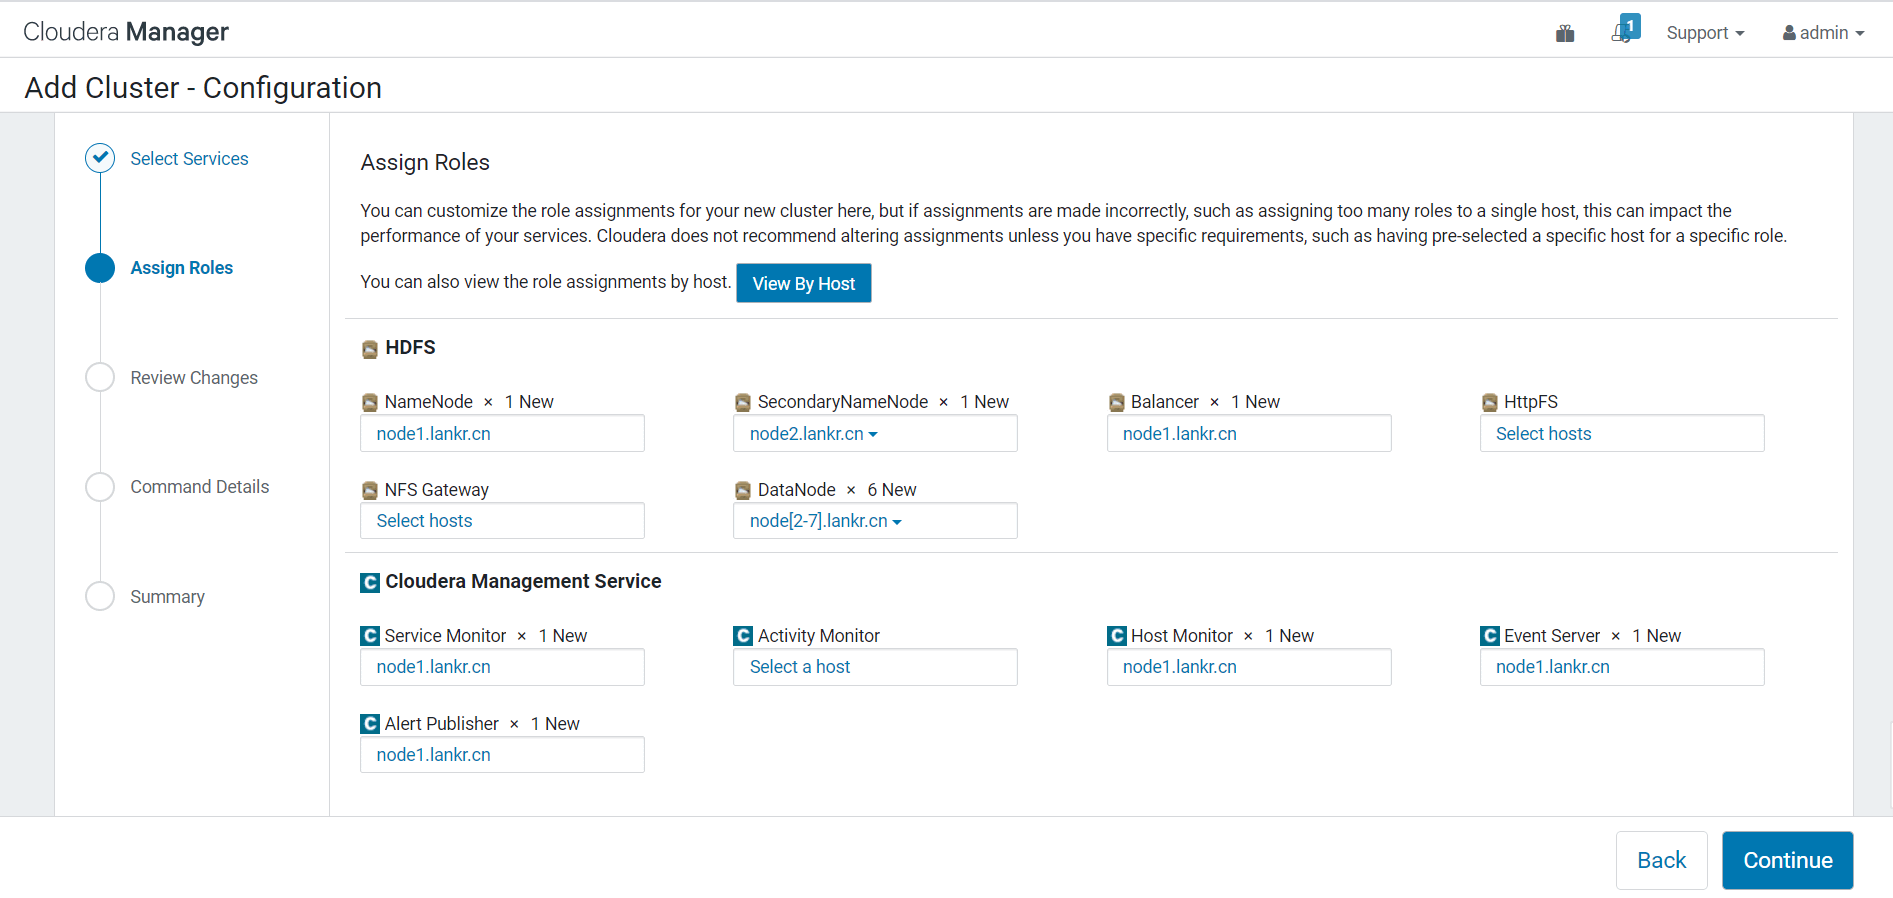
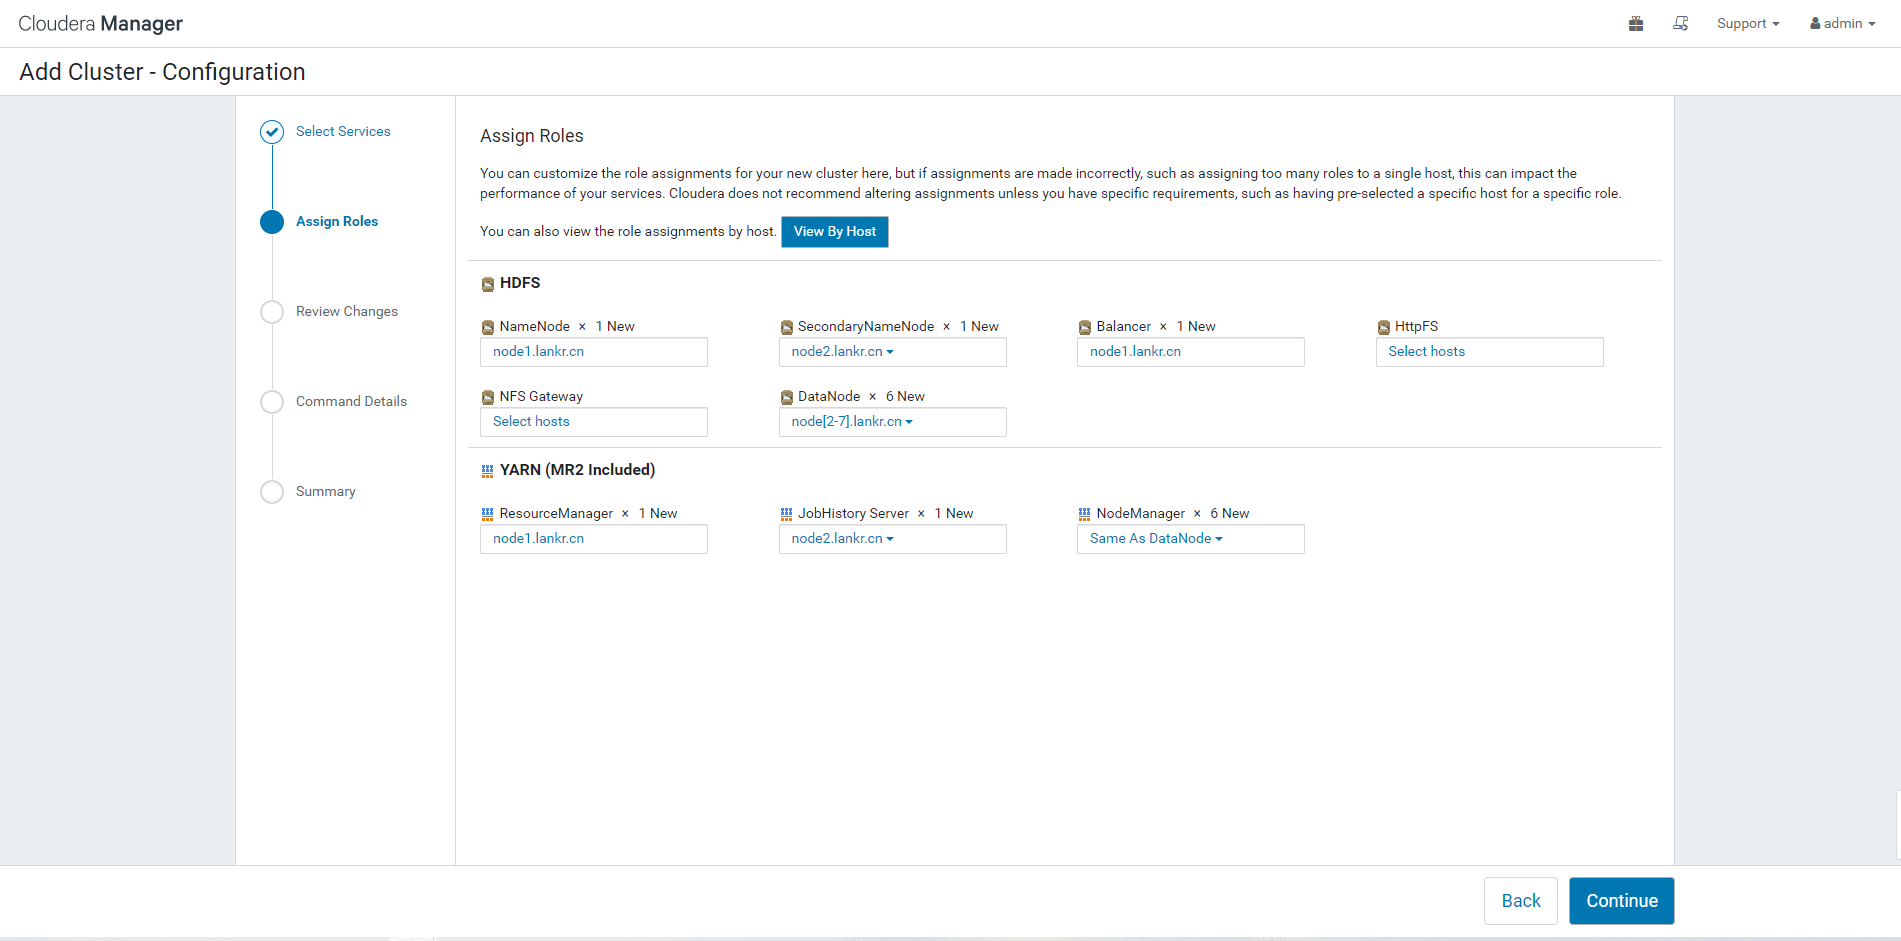
CDH

diff --git a/source/_posts/踩坑之路(八)_CDH6.3.2搭建(下).md b/source/_posts/踩坑之路(八)_CDH6.3.2搭建(下).md
@@ -99,7 +99,7 @@ sed -i s/"vm.swappiness = 30"/"vm.swappiness = 10"/g  /usr/lib/tuned/virtual-gue
 
 ## 3 安装服务
 
-### 3.1 安装HDFS
+### 3.1 安装HDFS和YARN
 
 > `放行HDFS端口`
 
@@ -131,11 +131,96 @@ ZKFC | `8019` | dfs.ha.zkfc.port | ZooKeeper FailoverController，用于NN HA
 
 ![](/img/articleContent/踩坑之路/8_CDH6.3.2搭建(下)/17.png)
 
+##### 3.1.3.1 Failed to format NameNode.
+
+> `错误`
+
+```shell
+Failed to format NameNode.
+
+是由于之前初始化 namenode 在 /dfs/nn 留下了残留数据（失效数据），从而影响再次初始化
+```
+
+> 解决办法
+>> 清空残留数据后，重新初始化
+
+> namenode节点：
+
+```
+rm -rf /dfs/nn
+```
+
+> datanode节点：
+
+```
+rm -rf /dfs/dn
+```
+
+##### 3.1.3.2 First failure: Command (Create /tmp Directory (762)) has failed
+
+> `错误`
+
+```shell
+First failure: Command (Create /tmp Directory (762)) has failed
+Safe mode will be turned off automatically once the thresholds have been reached
+```
+
+> 按正常命令启动HDFS之后,HDFS一直处于安全模式。他会一会儿自己退出，我们目前先手动退出一下
+
+```shell
+sudo -u hdfs hdfs dfsadmin -safemode leave
+```
+
+##### 3.1.3.2 Failed to upload YARN MapReduce Framework JARs.
+
+> `报错`
+
+```shell
+Failed to install YARN MapReduce Framework JARs.
+Failed to upload YARN MapReduce Framework JARs.
+```
+
+> 解决
+>> 这个我是端口的问题，去把需要的端口都放开吧(当然如果你关了防火墙就不会有这个问题)
+
+```shell
+需要开放的端口：
+https://docs.cloudera.com/documentation/enterprise/latest/topics/cm_ig_ports.html
+```
+
 #### 3.1.4 完成
 
 ![](/img/articleContent/踩坑之路/8_CDH6.3.2搭建(下)/18.png)
 
-## 4 配置本地域名映射
+## 4 警告修复
+
+### 4.1 DNS Resolution
+
+```shell
+The hostname and canonical name for this host are not consistent when checked from a Java process.
+```
+
+> 解决
+
+```shell
+vim /etc/sysconfig/network
+NETWORKING=yes
+HOSTNAME= node1.lankr.cn               ##每台服务器配置自己的
+systemctl restart network
+```
+
+```shell
+问题缘由是在配置hostname的时候配置了域名，服务器根据/etc/resolv.conf DNF解析是，提示找不到改域名。
+处理方式：在每台服务器上添加本地域名解析：(根据上述hosts配置，须要添加以下配置，domain 是本地域名的意思)
+
+echo "domain lankr.cn" >> /etc/resolv.conf
+```
+
+### 4.2 Erasure Coding Policy Verification Test
+
+![](/img/articleContent/踩坑之路/8_CDH6.3.2搭建(下)/19.png)
+
+## 5 配置本地域名映射
 
 ```shell
 C:\Windows\System32\drivers\etc\hosts
@@ -151,5 +236,8 @@ C:\Windows\System32\drivers\etc\hosts
 192.168.1.107 node7.lankr.cn node7
 ```
 
+> 这样windows电脑就可以通过node1或者node1.lankr.cn来访问CM集群了，而不用ip了
+
 ## 联系博主，加入【羊山丨交流社区】
 ![联系博主](/img/icon/wechatFindMe.png)
+
